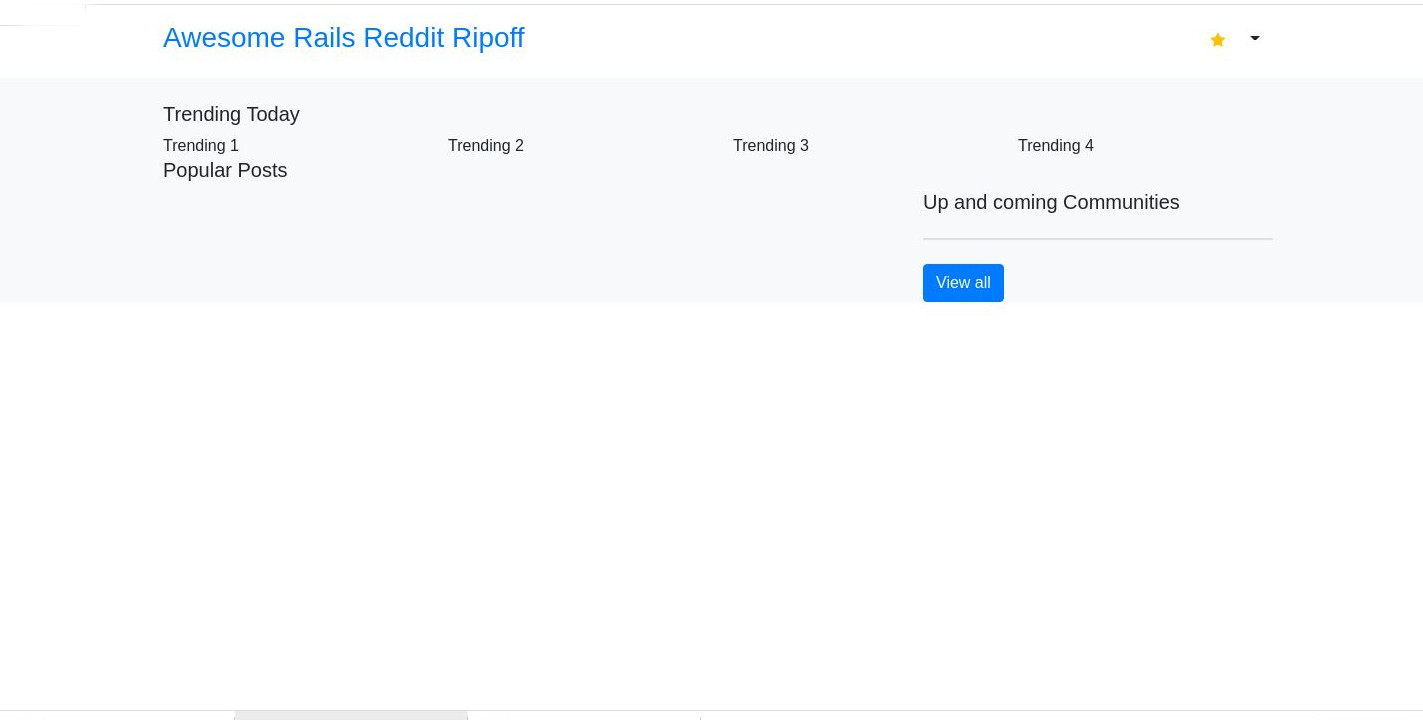
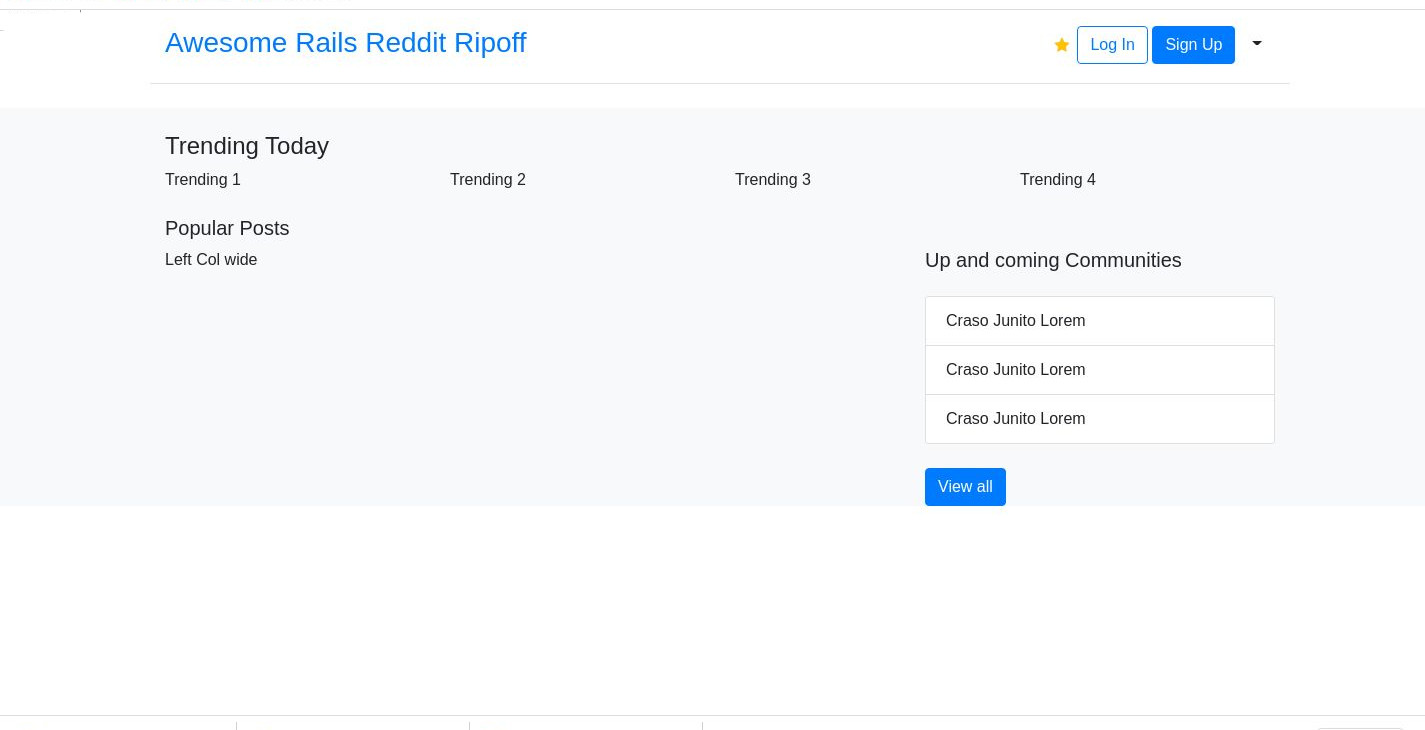
Update styles

diff --git a/db/schema.rb b/db/schema.rb
@@ -10,10 +10,19 @@
 #
 # It's strongly recommended that you check this file into your version control system.
 
-ActiveRecord::Schema.define(version: 2021_03_14_110201) do
+ActiveRecord::Schema.define(version: 2021_03_14_180125) do
 
   # These are extensions that must be enabled in order to support this database
   enable_extension "plpgsql"
+
+  create_table "communities", force: :cascade do |t|
+    t.string "name"
+    t.string "url"
+    t.text "rules"
+    t.integer "total_members"
+    t.datetime "created_at", precision: 6, null: false
+    t.datetime "updated_at", precision: 6, null: false
+  end
 
   create_table "users", force: :cascade do |t|
     t.string "first_name"

diff --git a/db/migrate/20210314180125_create_communities.rb b/db/migrate/20210314180125_create_communities.rb
@@ -1,0 +1,12 @@
+class CreateCommunities < ActiveRecord::Migration[6.1]
+  def change
+    create_table :communities do |t|
+      t.string :name
+      t.string :url
+      t.text :rules
+      t.integer :total_members
+      t.timestamps
+
+    end
+  end
+end
